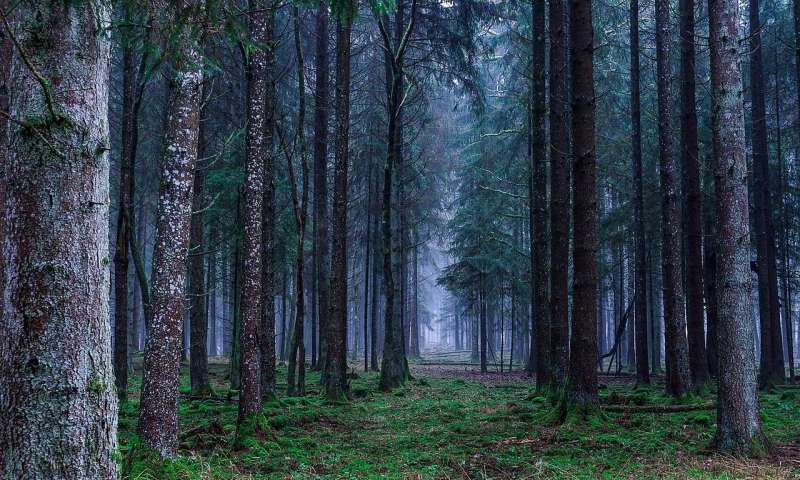
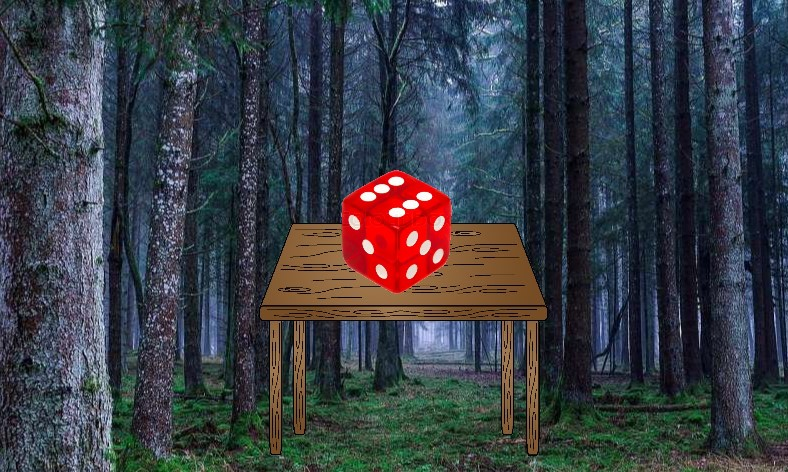
Add files via upload

diff --git a/project2-master/style.css b/project2-master/style.css
@@ -1,0 +1,43 @@
+a {
+    font-size:15px;
+    font: Tahoma bold;
+     text-align: center;
+     vertical-align: bottom;
+}
+
+a:link, a:visited {
+    background-color: white;
+    color: black;
+    border: 3px solid navy;
+    padding: 10px 20px;
+    text-align: center;
+    text-decoration: none;
+    display: inline-block;
+  }
+    a:hover, a:active {
+    background-color: navy;
+    color: white;
+  }
+
+body {
+      font-size: 20px;
+  }
+
+html {
+    bottom:0;
+    text-align:center;
+}
+
+#startroom, #enterDoor1, #takeDie, #pickupdie,
+#rolldiceless3, #puzzle1, 
+#maze1, #puzzle2, #maze2, #havekey
+{
+    background:linear-gradient(skyblue, navy);
+}
+
+img {
+    width: 780px;
+    height: 520px;
+}
+
+

diff --git a/project2-master/rollDice1.php b/project2-master/rollDice1.php
@@ -18,23 +18,33 @@
                     $roll = $_SESSION['diceroll'];
             
                 echo "
-                You rolled a $roll and open the door and walk in. It's still not your room and there's another table in front of you.
-
+                <br> 
+                You rolled a $roll. The ground vibrates and there's a hum in the air before it suddenly stops. It's quiet.
+                
+                <br>You open the door and walk in. It's still not your room and there's another table in front of you.
                 <br> You turn around. The door is gone. You turn back and there's a key on the table now.
-
-                <br> There's a key. Will you take it? <br>                
+                <br> Will you take it? <br> 
+                <br>                
                 ";
             
             ?>
 
-            <a href = "./puzzle2.php"><p>Take the key?</p></a>
-            <br>
-            <br>
-            <a href = "./end2.php"><p>Or leave it</p></a>
+            <a href = "./puzzle1.php"><p>Take the key?</p></a>
+  
 
-                   
+            <?php   
+                $_SESSION['endtype'] = "tried to find their own way out and was never seen again!";
+                echo" 
+            
+                    <a href = \"./leaderboard.php\"><p>Or leave it be?</p></a>";
+            echo "<br> <br>";
+            ?>
+                  
         </div>
-       
+        <div id = "bg">
+        <img id="takekeypic" src="./takekey.jpg">
+        </div>
+    
     
         
     </body>

diff --git a/project2-master/startroom.php b/project2-master/startroom.php
@@ -14,19 +14,24 @@
                 include 'common.php'; //used as a query validator in this assignment
                     if(!(isset($_SESSION['user']))){
                         echo "<p>Warning!!!Somethng went wrong?! Your progress is currently not being recorded!!</p>";
+                    }else{
+                        echo "<br>";
+                        echo "Oh? Your room looks...nonexistent??? What happened?
+                        <br>";
+                        echo "<br>";
+                            echo "<a href = \"./enterDoor.php\"><p>Will you go in?</p></a> ";
+                            $_SESSION['endtype'] = "was a coward and ran away!";
+                            echo "<a href = \"./leaderboard.php\"><p>Or will you close the door?</p></a> <br>";
+                            echo "<br>";
                     }
+                    
             ?>
-
-            Oh? Your room looks...nonexistent??? What happened?
-            <br>
-            <a href = "./enterDoor.php"><p>Will you go in?</p></a>
-            <br>
-            <a href = "./end2.php"><p>Or will you close the door?</p></a>
-
-            
-        </div>
-       
-        4
+        </div>  
         
+        <div id = "bg">
+          <img id="enterDooropenpic" src="./enterDooropen.jpg">
+        </div>
+    
+
     </body>
 </HTML>

diff --git a/project2-master/maze1.php b/project2-master/maze1.php
@@ -16,22 +16,21 @@
                         echo "<p>Warning!!!Somethng went wrong?! Your progress is currently not being recorded!!</p>";
                     }
             ?>
-
+            <br>
             You come across a giant maze, and enter it. There is a left path and a right path. Do you trust your luck and just go a random path, 
             or use the dice to pick the path for you?
             <br>
             <br>
-            <br>
-            <br>
-
            
-            <a href = "./maze2.php"><p>Roll the dice?</p></a>  
-    
+            <a href = "./maze2.php"><p>Roll the dice!</p></a>  
 
-            <a href = "./end3.php"><p>Or don't use it and pick one on your own?</p></a>
-                
+            <a href = "./end3.php"><p>Don't use it and pick a path by yourself.</p></a>
+            <br>
+            <br>
+        </div>
+        <div id = "bg">
+          <img id="maze" src="./mazepic.jpg">
         </div>
        
-        
     </body>
 </HTML>

diff --git a/project2-master/enterDoor.php b/project2-master/enterDoor.php
@@ -16,9 +16,9 @@
                         echo "<p>Warning!!!Somethng went wrong?! Your progress is currently not being recorded!!</p>";
                     }
             ?>
-
-            Instead of your room, you enter a forest. What happened to your stuff?
             <br>
+            Instead of your room, you enter a forest. What happened to your stuff?
+           
             <br>
             Placed conspicuously in front of you is a table. There's a die on it.
             <br>
@@ -27,13 +27,15 @@
             <br>
             <br>
             <a href = "./takeDie.php"><p>Take the dice?</p></a>
-            <br>
-            <br>
+        
             <a href = "./end2.php"><p>Or leave it behind?</p></a>
-
+            <br>
+            <br>
             
         </div>
-       
+        <div id = "bg">
+        <img id="lostforestpic" src="./lostforest.jpg">
+        </div>
     
         
     </body>

diff --git a/project2-master/maze2.php b/project2-master/maze2.php
@@ -9,7 +9,7 @@
 
     <body>
         <div id = "maze2">
-            
+        <br>  
             <?php
                 include 'common.php'; //used as a query validator in this assignment
                     if(!(isset($_SESSION['user']))){
@@ -26,15 +26,15 @@
                 ";
             
             ?>
-
             <a href = "./havekey.php"><p> I dont want to make my own choice! Roll the dice.</p></a>
+        
+            <a href = "./end3.php"><p>I am fully of making my own decisions. I want to pick a path.</p></a>   
             <br>
             <br>
-            <a href = "./end3.php"><p>I am fully of making my own decisions. I want to pick a path.</p></a>
-
-                   
         </div>
-       
+        <div id = "bg">
+          <img id="maze" src="./mazepic2.jpeg">
+         </div>
     
         
     </body>

diff --git a/project2-master/havekey.php b/project2-master/havekey.php
@@ -16,15 +16,19 @@
                         echo "<p>Warning!!!Somethng went wrong?! Your progress is currently not being recorded!!</p>";
                     }
             ?>
-
+            <br>
             You finally make it out of the maze. The dice knew the way all along. You decide not to question it anymore.
             There is now a giant door with a key hole. Do you have the key?
             <br>
-            <a href = "./end1.php"><p>Yes!!</p></a>
             <br>
-            <a href = "./end3.php"><p>Oh no... I don't...</p></a>
+            <a href = "./end1.php"><p>Yes!!</p></a>
 
-            
+            <a href = "./end3.php"><p>Oh no... I don't...</p></a>
+            <br>
+            <br>
+        </div>
+        <div id = "bg">
+          <img id="maze" src="./keydoor.jpg">
         </div>
     
     </body>

diff --git a/project2-master/leaderboard.php b/project2-master/leaderboard.php
@@ -8,11 +8,7 @@
     </head>
 
     <body>
-        <div class ="bannerarea">
-            
-            <h1>LEADERBOARD</h1>
-        
-        </div>
+
         <div class = "match">
             
             <?php
@@ -22,16 +18,13 @@
                             
                             $user = $_SESSION['user'];
                             $end = $_SESSION['endtype'];
-
                             
                             if(!(leaderboard($user, $end))){
                                 echo "<strong> Something went wrong in displaying the board</strong>";
                             }
-
                         }else{
                             echo "<strong> Game failed to end completely!!</strong>";
                         }
-
                         
                    
             ?>

diff --git a/project2-master/takeDie.php b/project2-master/takeDie.php
@@ -16,10 +16,8 @@
                         echo "<p>Warning!!!Somethng went wrong?! Your progress is currently not being recorded!!</p>";
                     }
             ?>
-
+            <br>
             You look up and the table is gone. Instead, there's a sign on the door that says "Roll the dice before you open me!"
-            <br>
-            <br>
             <br>
             What will you do?
             <br>
@@ -40,7 +38,11 @@
                 echo "<a href = \"./end2.php\"><p>Or don't use it and just open the door?</p></a>";
             ?>            
         </div>
-       
+        <div id = "bg">
+        <img id="takediepic" src="./lostforest.jpg">
+        </div>
+    
+        
     
         
     </body>

diff --git a/project2-master/rollDice2.php b/project2-master/rollDice2.php
@@ -28,13 +28,16 @@
             ?>
 
             <a href = "./puzzle1.php"><p>Take the key?</p></a>
-            <br>
-            <br>
+    
             <a href = "./end2.php"><p>Or leave it</p></a>
-
+            <br>
+            <br>
                    
         </div>
-       
+        <div id = "bg">
+        <img id="takekeypic" src="./takekey.jpg">
+        </div>
+    
     
         
     </body>

diff --git a/project2-master/validate.php b/project2-master/validate.php
@@ -51,6 +51,10 @@
         <div id = "intro" style = "margin-top: 15px;">
                
         </div>
+        <div id = "bg">
+          <img id="enterDoorpic" src="./enterDoor.jpg">
+        </div>
+    
         
     </body>
 </HTML>

diff --git a/project2-master/login.php b/project2-master/login.php
@@ -32,5 +32,9 @@
             </div>
             
         </div>
+        <div id = "bg">
+          <img id="enterDoorpic" src="./enterDoor.jpg">
+        </div>
+    
     </body>
 </HTML>
